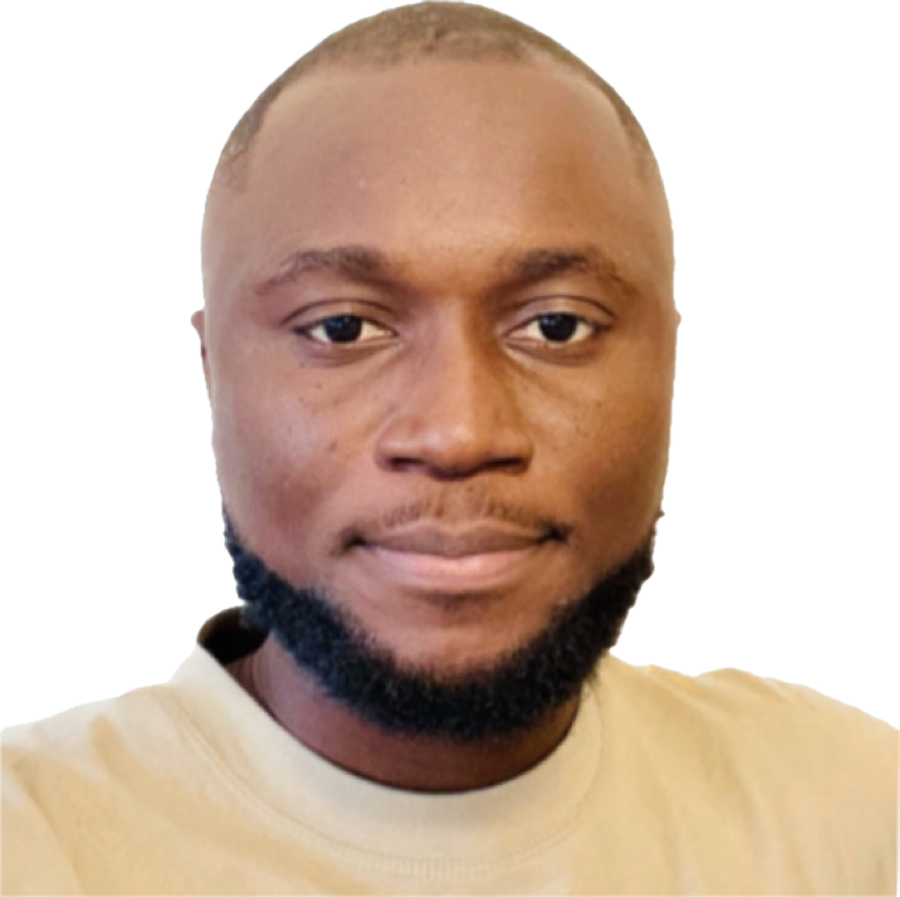
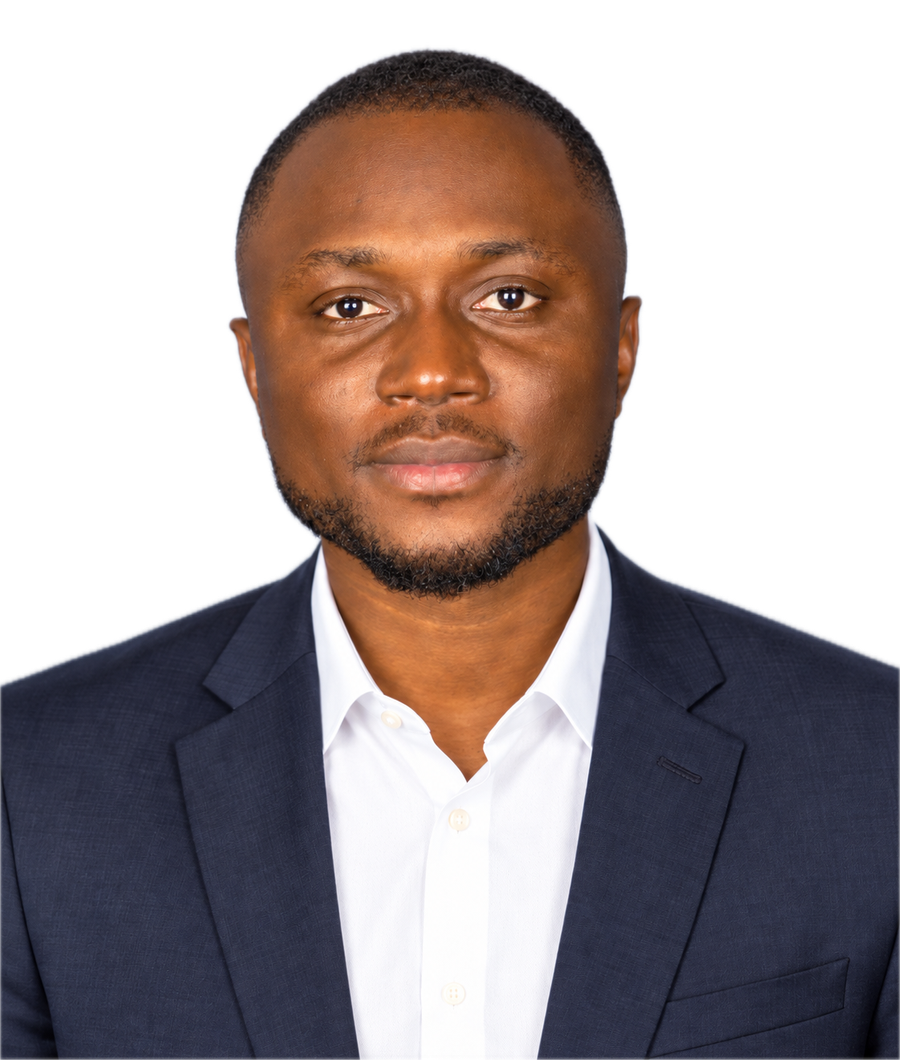
feat(portrait): nouvelle photo professionnelle (accueil, à propos, SEO)

diff --git a/content/site.ts b/content/site.ts
@@ -18,7 +18,7 @@ export const SITE = {
     { label: "CV Développement fullstack", href: "/assets/resume/CV_Koud-UM.pdf" },
     { label: "CV Chef de projet IT", href: "/assets/resume/CV_Koud_IAE.pdf" },
   ],
-  portrait: { src: "/images/profile.jpg", width: 1250, height: 1246, alt: "Portrait de Jancy Koud Banga" },
+  portrait: { src: "/images/profile.jpg", width: 1122, height: 1402, alt: "Portrait de Jancy Koud Banga" },
 } as const;
 
 /** Internal paths (French folders); labels come from the dictionary (nav.<key>). */

diff --git a/docs/CONTENT_INVENTORY.md b/docs/CONTENT_INVENTORY.md
@@ -12,7 +12,7 @@ Légende : ✅ sourcé (repo, CV ou site en ligne) · ⚠ à confirmer par Ja
 | GitHub | github.com/jancykoud | CV, site (200 OK) | ✅ |
 | GitLab | gitlab.com/fridelinbanga | site (200 OK) | ✅ |
 | LinkedIn | linkedin.com/in/jancy-koud-banga | CV | ⚠ le footer actuel pointe vers `jancykoudbanga` |
-| Portrait | `public/images/profile.jpg` (1250², fond blanc) → `portrait-cutout.png` | repo | ✅ Seul le fond blanc a été retiré (remplissage depuis les bords), sans aucune retouche du visage. La référence montre un portrait studio en plan large sur fond sombre : **à fournir** pour un rendu optimal. L'original n'est pas modifié. |
+| Portrait | `public/images/profile.jpg` (1122×1402, portrait studio professionnel) → `portrait-cutout.png` | repo | ✅ Fond retiré par détourage automatique (Vision, macOS), sans aucune retouche du visage. |
 | YouTube / WhatsApp (maquette) | — | — | ❌ non publiés (aucune URL fournie) |
 | Téléphone | +33 7 88 70 29 85 | CV | Non affiché dans la refonte (anti-spam, conforme à la maquette « Contact ») |
 
